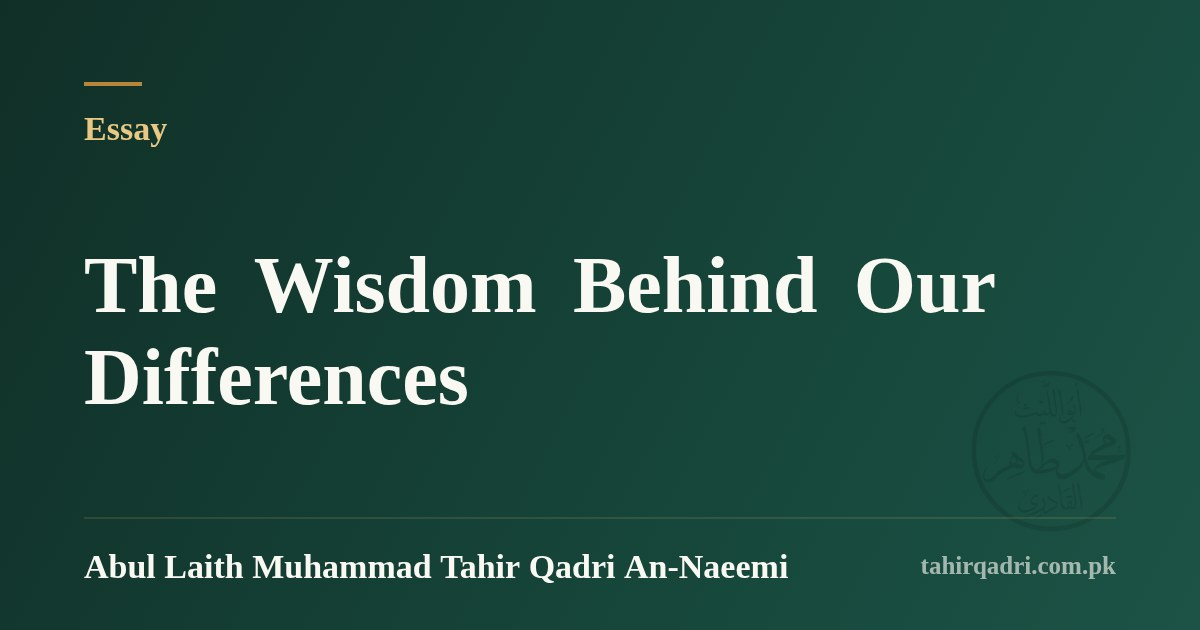
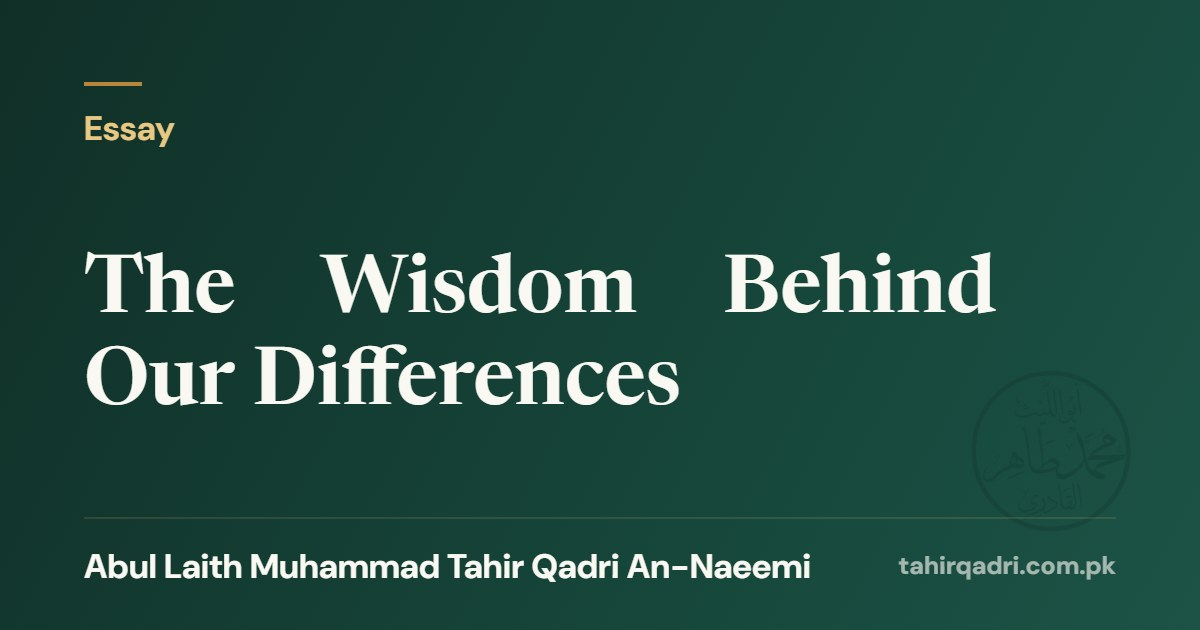
Update from the editor
content.js, posts/wisdom-behind-our-differences.html, files/cards/wisdom-behind-our-differences.jpg

Published by tahir.razavi@gmail.com

diff --git a/content.js b/content.js
@@ -392,7 +392,8 @@ window.siteContent = {
           language: "en",
           kind: "مضمون",
           date: "2026-09-12",
-          description: "Az-Zukhruf 43:32 on why people are not made equal in strength, knowledge, wealth or standing — and how that difference is what makes them need one another.",
+          updated: "2026-09-12",
+          description: "Az-Zukhruf 43:32 on why people are not made equal in strength, knowledge, wealth or standing and how that difference is what makes them need one another.",
           descriptionUr: "سورۂ زخرف کی آیت ۳۲ کی روشنی میں: لوگوں کو قوت، علم، مال اور مرتبے میں برابر نہیں رکھا گیا، اور یہی فرق ایک دوسرے کی حاجت اور خدمت کا سبب ہے۔",
           tags: ["Tafsir", "Qur'an", "Society", "Az-Zukhruf"],
           page: "posts/wisdom-behind-our-differences.html"
@@ -533,7 +534,7 @@ window.siteContent = {
    this cannot read into. */
 window.siteContent.searchIndex = {
   "wisdom-behind-our-differences": {
-    "text": "The Ayah نَحْنُ قَسَمْنَا بَيْنَهُم مَّعِيشَتَهُمْ فِي الْحَيَاةِ الدُّنْيَا وَرَفَعْنَا بَعْضَهُمْ فَوْقَ بَعْضٍ دَرَجَاتٍ لِّيَتَّخِذَ بَعْضُهُم بَعْضًا سُخْرِيًّا وَرَحْمَتُ رَبِّكَ خَيْرٌ مِّمَّا يَجْمَعُونَ Surah Az-Zukhruf (43:32) Allah says He has distributed people's livelihood in this world and raised some above others in ranks — so that some of them can serve others. People Are Not the Same Not everyone is equal. Some are strong, some are weak. Some have knowledge, some don't. Some are skilled, some struggle. Some are well-known, some remain unknown. Some have wealth, some have very little. Some hold high status, others live quietly. These differences aren't random. Why These Differences Exist If Allah had made everyone equal in every way — same strength, same knowledge, same money, same position — no one would need anyone else. There would be no reason for people to help or serve one another. Society would fall apart. The differences create interdependence. That is how human life keeps moving. A Final Reminder And at the end of the ayah, Allah reminds us: His mercy is far better than all the wealth people keep gathering. Tafsīr al-Rāzī (Fakhr al-Dīn al-Rāzī, d. 606 AH) on Surah az-Zukhruf 43:32."
+    "text": "The Ayah نَحْنُ قَسَمْنَا بَيْنَهُم مَّعِيشَتَهُمْ فِي الْحَيَاةِ الدُّنْيَا وَرَفَعْنَا بَعْضَهُمْ فَوْقَ بَعْضٍ دَرَجَاتٍ لِّيَتَّخِذَ بَعْضُهُم بَعْضًا سُخْرِيًّا وَرَحْمَتُ رَبِّكَ خَيْرٌ مِّمَّا يَجْمَعُونَ Surah Az-Zukhruf (43:32) Allah says He has distributed people's livelihood in this world and raised some above others in ranks — so that some of them can serve others. People Are Not the Same Not everyone is equal. Some are strong, some are weak. Some have knowledge, some don't. Some are skilled, some struggle. Some are well-known, some remain unknown. Some have wealth, some have very little. Some hold high status, others live quietly. These differences aren't random. Why These Differences Exist If Allah had made everyone equal in every way i.e. same strength, same knowledge, same money, same position, then no one would need anyone else. There would be no reason for people to help or serve one another. Society would fall apart. The differences create interdependence. That is how human life keeps moving. A Final Reminder And at the end of the ayah, Allah reminds us: His mercy is far better than all the wealth people keep gathering. Tafsīr al-Rāzī (Fakhr al-Dīn al-Rāzī, d. 606 AH) on Surah az-Zukhruf 43:32."
   },
   "books-that-arent-coming-back": {
     "text": "Millions of books were bought, then cut apart In a warehouse, a machine takes the spine off a book, the loose pages run through a scanner, and the paper goes to recycling. The American company Anthropic did this to millions of print books it had purchased, to train its AI model. Court documents show it hired Tom Turvey, formerly of Google Books, in February 2024 and tasked him with obtaining “all the books in the world.” [1] A judge ruled that destroying the book made it legal In June 2025 a US district judge, William Alsup, found the practice lawful. Once you buy a book it is yours, and because the paper original was destroyed, the scan didn’t add a copy, it replaced one. The uncomfortable part sits right there. Had the company kept the books on a shelf, it would have held two copies and broken the law. Shredding them is what kept it legal. [2] Seven million pirated books cost $1.5 billion Before it bought anything, the same company had already pulled more than seven million books off piracy sites. [3] The judge drew a hard line there, and it ended in a $1.5 billion settlement: roughly $3,000 per book across more than 400,000 works. [4] Anything printed before 2022 is now the prize So much writing online is machine-produced that models risk feeding on their own output, and quality degrades. Books printed before 2022 carry none of that contamination, which is what makes old stock valuable. 404 Media reported in July 2026 that one company was offering AI firms bulk orders of 1,000 to a million books. That company later removed the page and said no such service ever launched. In the same report, a bookseller said the orders clear stock that would never sell, but that uncommon books are being pulped. [5] Who else is doing this, beyond Anthropic, is not established. Snopes rated the wider claim mostly true, with parts undetermined. [6] 64% of Americans still read print Pew Research Center asked US adults in October 2025 what they had read in the past year. 64% had read a print book, 31% an e-book, 26% an audiobook. Print is the only format a majority still uses. [7] A book on your shelf depends on no server Digitisation was sold to us as preservation. What happened instead was that money was spent to buy books and turn them into pulp. A digital copy survives only as long as someone keeps paying for the server; it can be edited or quietly removed, and you will not be told. Buy the hard copy, and keep it. Especially the ones nobody will reprint. Sources [1] Benj Edwards, “Anthropic destroyed millions of print books to build its AI models,” Ars Technica, 25 June 2025. arstechnica.com/ai/2025/06/anthropic-destroyed-millions-of-print-books-to-build-its-ai-models/ [2] “Federal Judge Rules AI Training Is Fair Use in Anthropic Copyright Case,” Publishers Weekly, 25 June 2025 — Bartz v. Anthropic, N.D. Cal. publishersweekly.com/pw/by-topic/digital/copyright/article/98089-federal-judge-rules-ai-training-is-fair-use-in-anthropic-copyright-case.html [3] “Mixed Decision in Anthropic AI Case,” The Authors Guild. authorsguild.org/news/mixed-decision-in-anthropic-ai-case/ [4] Associated Press, “Anthropic pays $1.5B to authors in Claude AI copyright settlement over pirated books” — final approval 20 July 2026. aol.com/articles/anthropic-pays-1-5b-authors-170300000.html [5] Samantha Cole, “AI Companies Are Buying Tons of Old Books Because They’re Free of AI Slop,” 404 Media, 21 July 2026. [6] “Are AI companies scanning and destroying millions of books, including rare titles?” Snopes. snopes.com/fact-check/ai-companies-destroying-rare-books/ [7] “Do Americans read print books, e-books or audiobooks more?” Pew Research Center — survey October 2025, published 9 April 2026. pewresearch.org/short-reads/2026/04/09/americans-still-opt-for-print-books-over-digital-or-audio-versions-few-are-in-book-clubs/"

diff --git a/posts/wisdom-behind-our-differences.html b/posts/wisdom-behind-our-differences.html
@@ -4,13 +4,13 @@
     <meta charset="UTF-8" />
     <meta name="viewport" content="width=device-width, initial-scale=1.0" />
     <title>The Wisdom Behind Our Differences — Abul Laith Muhammad Tahir Qadri An-Naeemi</title>
-    <meta name="description" content="Az-Zukhruf 43:32 on why people are not made equal in strength, knowledge, wealth or standing — and how that difference is what makes them need one another." />
+    <meta name="description" content="Az-Zukhruf 43:32 on why people are not made equal in strength, knowledge, wealth or standing and how that difference is what makes them need one another." />
     <meta name="author" content="Abul Laith Muhammad Tahir Qadri An-Naeemi" />
     <link rel="canonical" href="https://tahirqadri.com.pk/posts/wisdom-behind-our-differences.html" />
 
     <meta property="og:type" content="article" />
     <meta property="og:title" content="The Wisdom Behind Our Differences" />
-    <meta property="og:description" content="Az-Zukhruf 43:32 on why people are not made equal in strength, knowledge, wealth or standing — and how that difference is what makes them need one another." />
+    <meta property="og:description" content="Az-Zukhruf 43:32 on why people are not made equal in strength, knowledge, wealth or standing and how that difference is what makes them need one another." />
     <meta property="og:url" content="https://tahirqadri.com.pk/posts/wisdom-behind-our-differences.html" />
     <meta property="og:image" content="https://tahirqadri.com.pk/files/cards/wisdom-behind-our-differences.jpg" />
     <meta name="twitter:card" content="summary_large_image" />
@@ -22,7 +22,7 @@
     <link rel="preconnect" href="https://fonts.gstatic.com" crossorigin />
     <link href="https://fonts.googleapis.com/css2?family=Amiri:wght@400;700&family=DM+Sans:opsz,wght@9..40,400;9..40,500;9..40,700&family=Newsreader:ital,opsz,wght@0,6..72,400;0,6..72,600;1,6..72,400&family=Noto+Nastaliq+Urdu:wght@400;500;600&display=swap" rel="stylesheet" />
     <link rel="stylesheet" href="../styles.css" />
-    <script type="application/ld+json">{"@context":"https://schema.org","@type":"BlogPosting","headline":"The Wisdom Behind Our Differences","inLanguage":"en","description":"Az-Zukhruf 43:32 on why people are not made equal in strength, knowledge, wealth or standing — and how that difference is what makes them need one another.","datePublished":"2026-09-12","keywords":"Tafsir, Qur'an, Society, Az-Zukhruf","url":"https://tahirqadri.com.pk/posts/wisdom-behind-our-differences.html","author":{"@type":"Person","name":"Abul Laith Muhammad Tahir Qadri An-Naeemi","alternateName":"أبو اللّیث محمد طاہر القادری النّعیمی","url":"https://tahirqadri.com.pk/"},"isPartOf":{"@type":"Collection","name":"Posts, Notes & Reflections","url":"https://tahirqadri.com.pk/"}}</script>
+    <script type="application/ld+json">{"@context":"https://schema.org","@type":"BlogPosting","headline":"The Wisdom Behind Our Differences","inLanguage":"en","description":"Az-Zukhruf 43:32 on why people are not made equal in strength, knowledge, wealth or standing and how that difference is what makes them need one another.","datePublished":"2026-09-12","keywords":"Tafsir, Qur'an, Society, Az-Zukhruf","url":"https://tahirqadri.com.pk/posts/wisdom-behind-our-differences.html","author":{"@type":"Person","name":"Abul Laith Muhammad Tahir Qadri An-Naeemi","alternateName":"أبو اللّیث محمد طاہر القادری النّعیمی","url":"https://tahirqadri.com.pk/"},"isPartOf":{"@type":"Collection","name":"Posts, Notes & Reflections","url":"https://tahirqadri.com.pk/"}}</script>
   </head>
 
   <body class="work-page">
@@ -52,10 +52,10 @@
           <p>Not everyone is equal. Some are strong, some are weak. Some have knowledge, some don't. Some are skilled, some struggle. Some are well-known, some remain unknown. Some have wealth, some have very little. Some hold high status, others live quietly.</p>
           <p>These differences aren't random.</p>
           <h2>Why These Differences Exist</h2>
-          <p>If Allah had made everyone equal in every way — same strength, same knowledge, same money, same position — no one would need anyone else. There would be no reason for people to help or serve one another. Society would fall apart.</p>
+          <p>If Allah had made everyone equal in every way i.e. same strength, same knowledge, same money, same position, then no one would need anyone else. There would be no reason for people to help or serve one another. Society would fall apart.</p>
           <p>The differences create interdependence. That is how human life keeps moving.</p>
           <h2>A Final Reminder</h2>
-          <p>And at the end of the ayah, Allah reminds us: His mercy is far better than all the wealth people keep gathering.</p>
+          <p>And at the end of the ayah, <b>Allah reminds us: His mercy is far better than all the wealth people keep gathering.</b></p>
           <p class="footnote">Tafsīr al-Rāzī (Fakhr al-Dīn al-Rāzī, d. 606 AH) on Surah az-Zukhruf 43:32.</p>
         </div>
 
